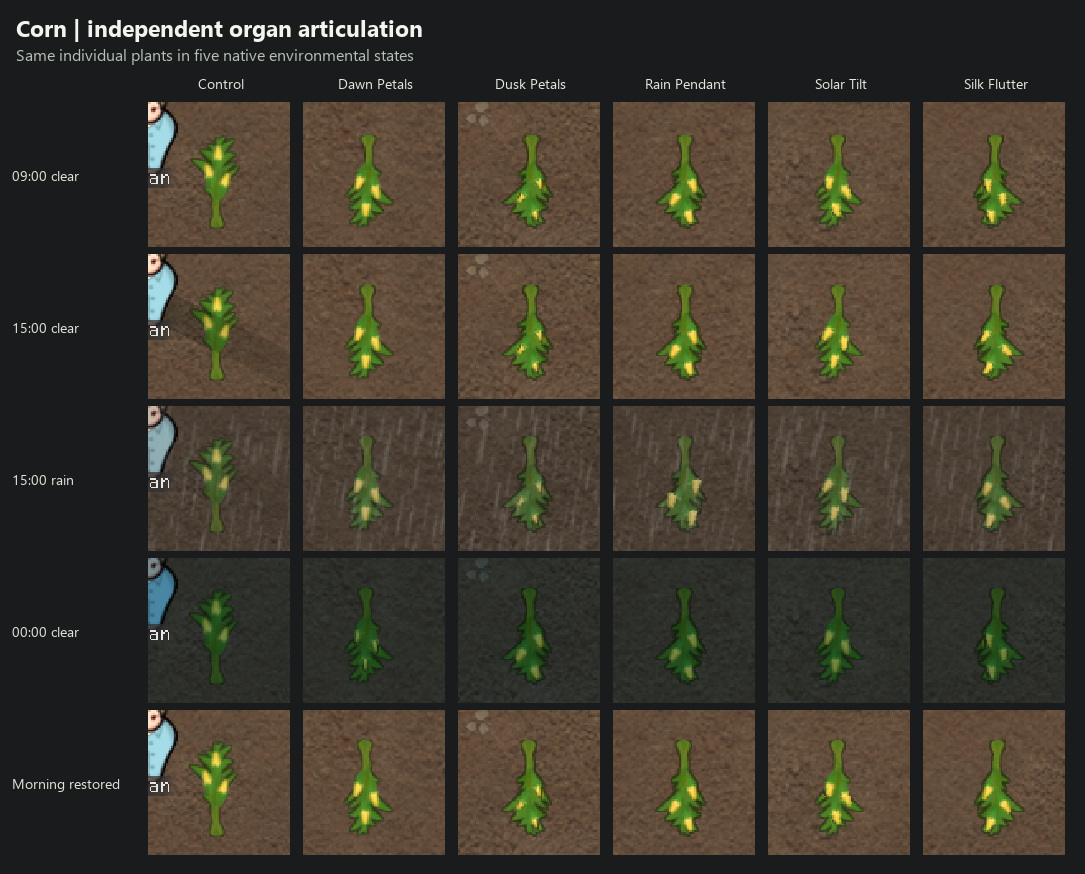
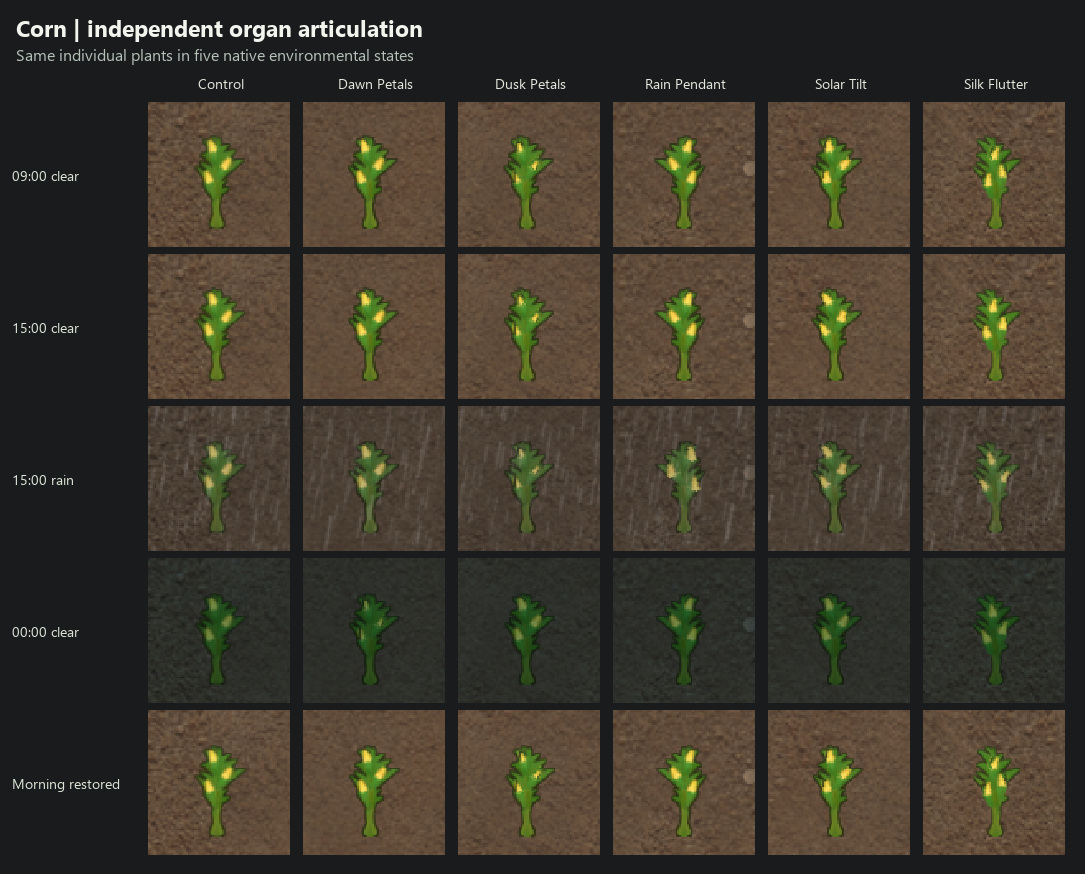
Evidence: upright articulated sprites and positional native GPU parity

diff --git a/README.md b/README.md
@@ -1,53 +1,50 @@
-# Horticulture - independent reproductive organ articulation
+# Horticulture - upright organ articulation (orientation correction)
 
-Actual RimWorld 1.7.5014 rev1195, AllPerformance run
-a329212d9dca4a179f09b8fc81c90c4e, source
-[bbf4da99caa352b7542589e9ee2bd5dd632e1a9d](https://github.com/lanwoodall423/Horticulture---Novel-Seeds/commit/bbf4da99caa352b7542589e9ee2bd5dd632e1a9d).
+Native RimWorld 1.7.5014 rev1195, AllPerformance run
+69d66e7ca1b94458b9c4dd4623a04bd7, source
+[1c4ce8c7fe81431126f7bc61beb7243bee37fea7](https://github.com/lanwoodall423/Horticulture---Novel-Seeds/commit/1c4ce8c7fe81431126f7bc61beb7243bee37fea7).
 
-![Native garden overview](articulation-gallery.jpg)
+![Native before and after orientation comparison](orientation-before-after.jpg)
 
-| Same individuals through five states | Labeled close-ups |
-|---|---|
-| Corn | [Corn](articulation-corn.jpg) |
-| Cotton | [Cotton](articulation-cotton.jpg) |
-| Daylily | [Daylily](articulation-daylily.jpg) |
+The previous gallery selected the correct atlas cell, but the sprite
+inside each cell was vertically inverted. The fixture's unordered swatch
+comparison did not test orientation. Local UV.y inversion is independent
+of atlas row selection and preserves the nine-frame mapping. The new test
+renders each real vanilla source and its exact neutral atlas pose to the
+same dimensions using native GPU readback, compares corresponding pixels,
+and checks vertical/horizontal/combined reflections. All 30 passed:
+five traits across six source variations (corn, cotton, daylily).
+Maximum direct normalized RGB error: 3.9550345E-05.
+Minimum vertically mirrored error: 0.28800803.
 
-Original 1600x900 in-game captures:
-[Morning](panel-1.png) | [Afternoon](panel-2.png) |
-[Rain](panel-3.png) | [Midnight](panel-4.png) | [Restored morning](panel-5.png).
+All nine frame indices, all eight native stages and 75 material states
+passed; 15 cultivars, three controls, 30 atlases and five native conditions.
+All preservation/cleanup checks passed. All previous rule tests passed;
+fixture build had no warnings/errors. The new corn close-up was visually
+inspected and all five traits are upright in all five captures.
+No pixels in the source captures have been retouched or flipped in editing.
 
-All eight native stages passed; 18 unique mature plants, three vanilla
-controls, 15 registered experimental cultivars, all rendered, no fallback.
-Five environmental states, 75 verified material/control states, 15 stable
-materials, 30 prepared nine-frame atlases, six original source variations.
-Native wind manager phase advanced and selected different local organ frames.
-All 30 atlases retained the original source alpha footprint and at least one
-exact source frame. No new geometry, manual masks, or GPU phenotype masks.
-Initial ordinary and fixture builds clean; all prior and 20 new rules passed.
-All preservation and cleanup checks passed.
+[All species overview](articulation-gallery.jpg) |
+[Corn](articulation-corn.jpg) |
+[Cotton](articulation-cotton.jpg) |
+[Daylily](articulation-daylily.jpg)
 
-The atlas uses approximate pigment-based reproductive components and local
-foliage reconstruction; source alpha retention can leave reconstructed
-foliage silhouettes where a contracted organ was. The effects are subtle
-at normal zoom; original source variants and wind motion complicate direct
-comparisons with controls. Midnight/rain further reduce visibility.
-This run verified material phase, actual scene rendering, and all nine GPU frame indices; smooth natural motion remains unqualified. It is not an
-art-direction approval or production release. No plant pixels retouched;
-the labeled crops are enlarged from the original captures.
+Original 1600x900 captures:
+[Morning](panel-1.png) | [Afternoon](panel-2.png) | [Rain](panel-3.png) |
+[Midnight](panel-4.png) | [Restored morning](panel-5.png).
 
-[Native material/frame inventory](articulation-inventory.tsv) |
+[30 source-orientation comparisons](orientation-parity.tsv) |
+[Nine-frame GPU parity](gpu-parity-corrected.tsv) |
+[75 material states](articulation-inventory.tsv) |
 [Atlas preparation](articulation-preparation.tsv) |
 [Genetics inventory](garden-inventory.tsv) |
 [Player preservation](preservation-result.json).
 
-Reproduce with the game closed:
-```powershell
-powershell.exe -NoProfile -ExecutionPolicy Bypass -File DevTools/Run-NativeQuicktest.ps1 -Loadout AllPerformance -ArticulationGarden
-```
-## GPU orientation regression
+The prior gallery at commit 4a27082 is superseded; its raw captures are
+preserved for regression evidence. This correction addresses orientation,
+not classification quality, continuous organ animation or production
+activation. Previous experimental rendering paths are unchanged.
 
-The initial native garden passed material checks, but the follow-up swatch probe
-(run a0e0a175ebf14d5aa7771a58e5fecbfb) found outer atlas rows reversed.
-Corrected source bbf4da9 passed all nine swatches with maximum normalized RGB
-error 0.0018627644, then passed all eight garden stages again.
-[Before fix](gpu-parity-before-fix.tsv) | [After fix](gpu-parity-corrected.tsv).
+Reproduce with RimWorld closed:
+
+    powershell.exe -NoProfile -ExecutionPolicy Bypass -File DevTools/Run-NativeQuicktest.ps1 -Loadout AllPerformance -ArticulationGarden
